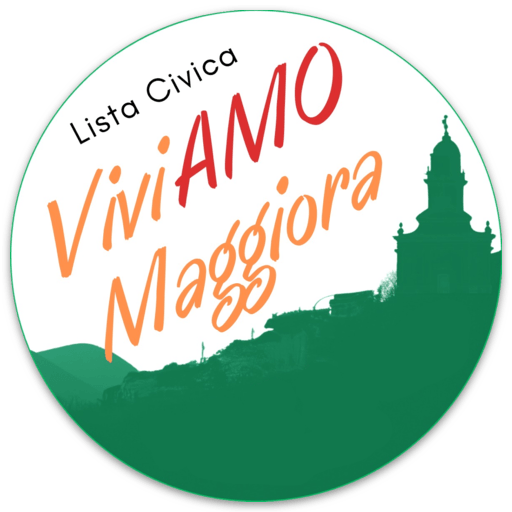
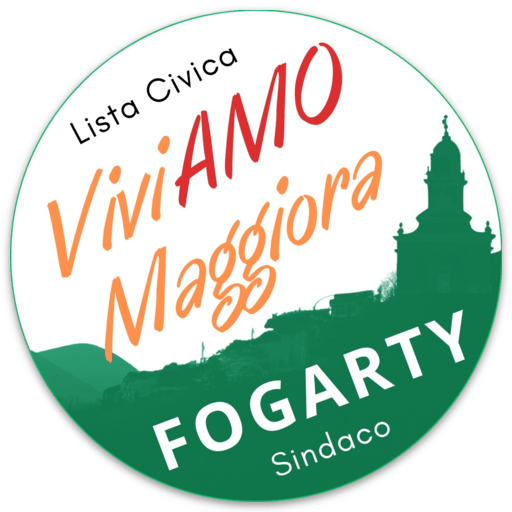
Add files via upload

Changed region(s): [[0.2812, 0.5938, 0.9062, 0.9375], [0.5312, 0.8125, 0.7812, 0.9375]]

diff --git a/index.html b/index.html
@@ -52,6 +52,44 @@
         <img src="images/banner.jpg" alt="ViviAMO Maggiora" />
     </div>
 </section>
+	<section class="wrapper style1 align-center">
+<div class="inner">
+<div class="content">
+<div class="index align-left">
+Gli ultimi mesi, a Maggiora, sono stati molto intensi. Sono emersi molti temi importanti, che sono stati occasione di incontro e dialogo tra cittadini provenienti da esperienze professionali e culturali diverse, accomunati da un valore molto importante: l'amore per il nostro paese.
+</br></br>
+In questo contesto diverse persone mi hanno chiesto di candidarmi come Sindaco alle prossime elezioni comunali. Questa proposta, che mi ha sorpreso e onorato, arrivava da persone per cui nutro la massima stima e rispetto. Ho accettato, quindi, la sfida con coraggio ed entusiasmo, e abbiamo formato una squadra di persone pronte a mettersi in gioco per il bene comune, e che possano portare qualità umane, esperienza e competenza. Così è nata la lista civica ViviAmo Maggiora.
+</br></br>
+Il nostro, è il paese delle eccellenze: l'Antonelli, lo sport, il vino, la musica, le opere sociali e le manifestazioni locali. Maggiora è un luogo bello da vivere, dove si può fare comunità, fare famiglia, dove i bambini possono crescere al sicuro e dove gli anziani possono vivere in serenità. Maggiora si trova in una posizione strategica, incastonata tra il distretto dei laghi, i vigneti dell’Alto Piemonte e le montagne della Valsesia, e può offrire molto dal punto di vista dell'enogastronomia, della natura, della cultura e dell'intrattenimento, proprio al centro di una zona che sta vivendo una forte espansione nel settore del turismo.
+</br></br>
+Maggiora deve diventare protagonista dell'Alto Novarese. Per questo, ci vuole una visione organica dello sviluppo economico e sociale del paese, serve un'adeguata valorizzazione del patrimonio culturale e artistico, e apertura al dialogo sia all'interno del paese che con le realtà circostanti. Maggiora può crescere solo assieme a tutto il territorio e per questo è necessario rafforzare i rapporti con i comuni circostanti, con gli entri provinciali e regionali, ed evitare politiche che possano causare l'isolamento de Comune.
+</br></br>
+Il nostro paese può tornare ad essere attrattivo e offrire molto dal punto di vista del lavoro e dei servizi a famiglie, giovani ed anziani.
+</br></br>
+La squadra di ViviAmo Maggiora è pronta ad affrontare questa sfida ambiziosa.
+</div>
+</section>
+
+					
+                <section class="wrapper style1 align-center">
+                    <div class="inner">
+                        <div class="index align-left">
+
+                            
+                                <section>
+                                    <header>
+                                        <h3>Candidato Sindaco</h3>
+                                    </header>
+                                    <div class="content">
+
+                                        <h3>Francis Fogarty</h3>
+                                        <span class="image fit"><img src="images/pic00.jpg" alt="" /></span>
+                                        <p>Francis Fogarty, 43 anni, è nato e cresciuto a Maggiora, è sposato e ha due figli. Da oltre 27 anni lavora come enologo presso la storica azienda vitivinicola di famiglia, ottenendo numerosi riconoscimenti nazionali ed internazionali, tra cui l’inserimento tra i migliori 100 vini del mondo della prestigiosa guida americana Wine Enthusiast. Laureato con lode in Scienze Viticole ed Enologiche, ha collaborato con l’Università di Milano ottenendo il titolo di Dottore di Ricerca. Nel suo percorso professionale, Francis ha lavorato presso la Commissione Europea mettendo a disposizione le sue competenze tecniche e scientifiche nell’ambito della riforma della Organizzazione Comune del Mercato (OCM) vitivinicolo. Dal 2013 è membro del direttivo del Sesia Val Grande Global UNESCO Geopark, ente che contribuisce allo sviluppo sostenibile del territorio, partecipando al successo locale ed internazionale di questa realtà. Oltre che a collaborare con l’Università di Torino per progetti didattici e di ricerca, Francis svolge anche l’attività di docente di lingua inglese e, nel tempo libero, svolge volontariato in Parrocchia.</p>
+                                    </div>
+                                </section>
+
+
+
 	
 <footer class="wrapper style1 align-center">
     <div class="inner">
